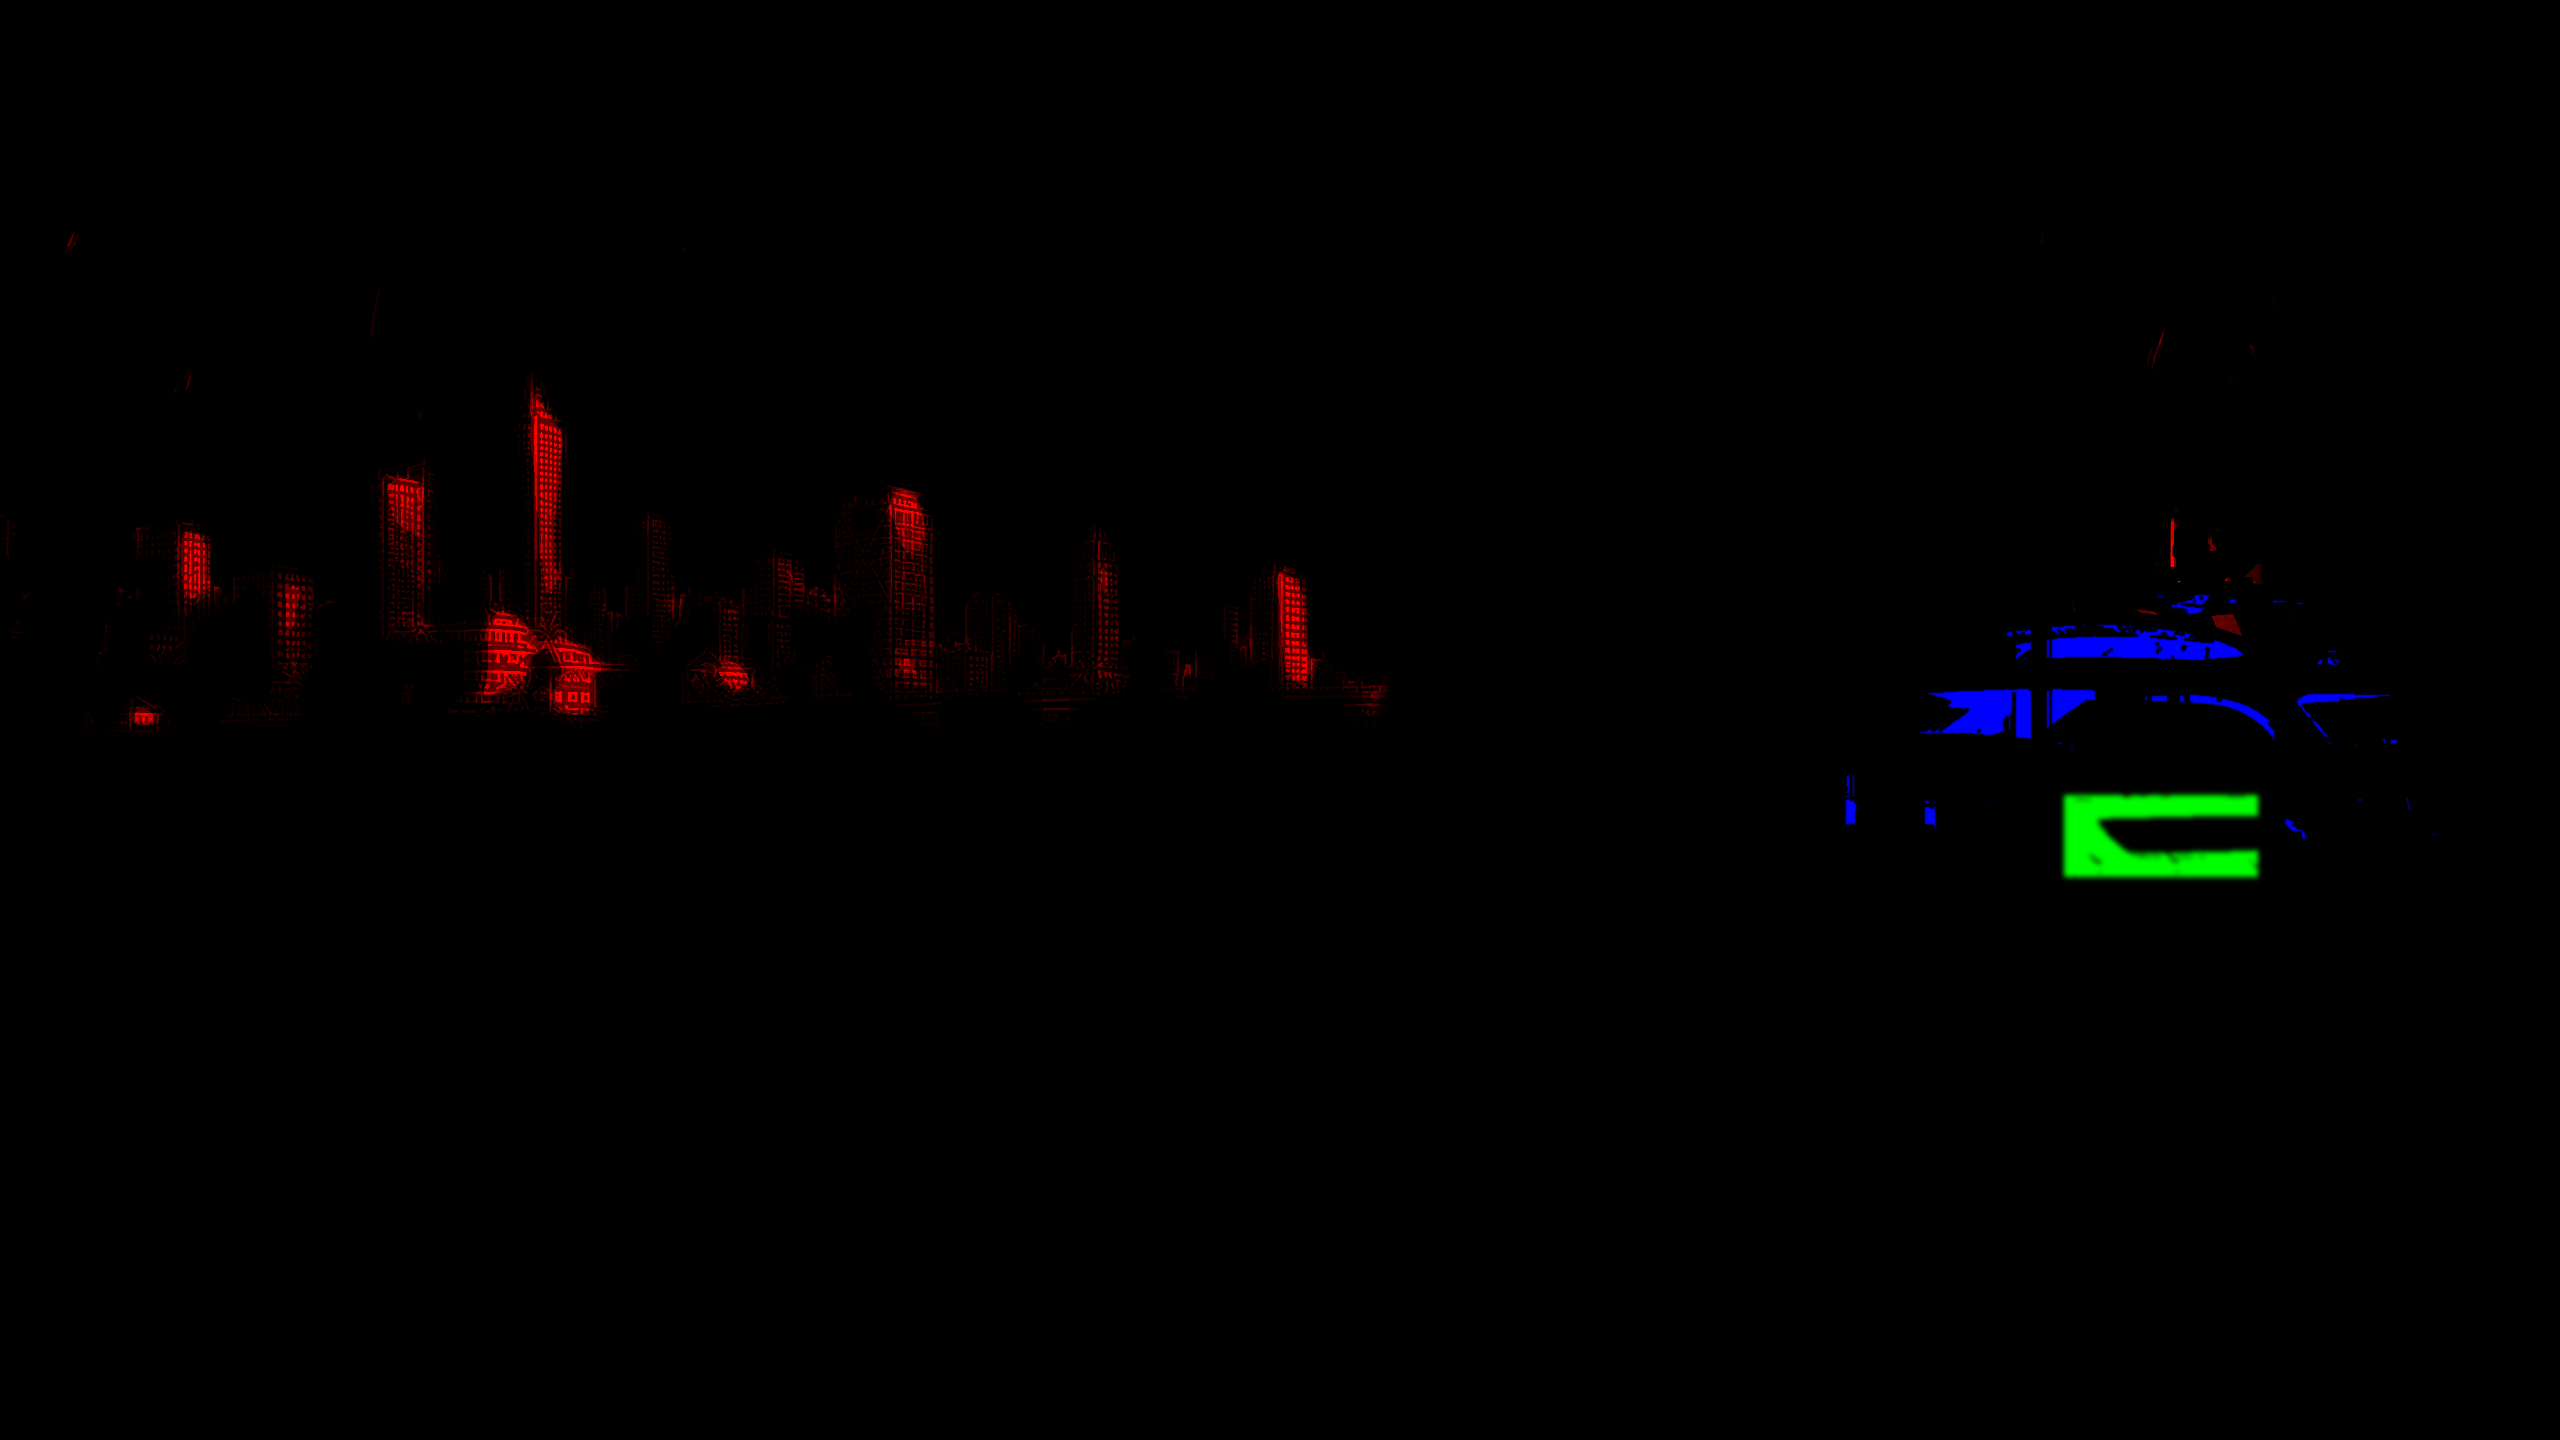
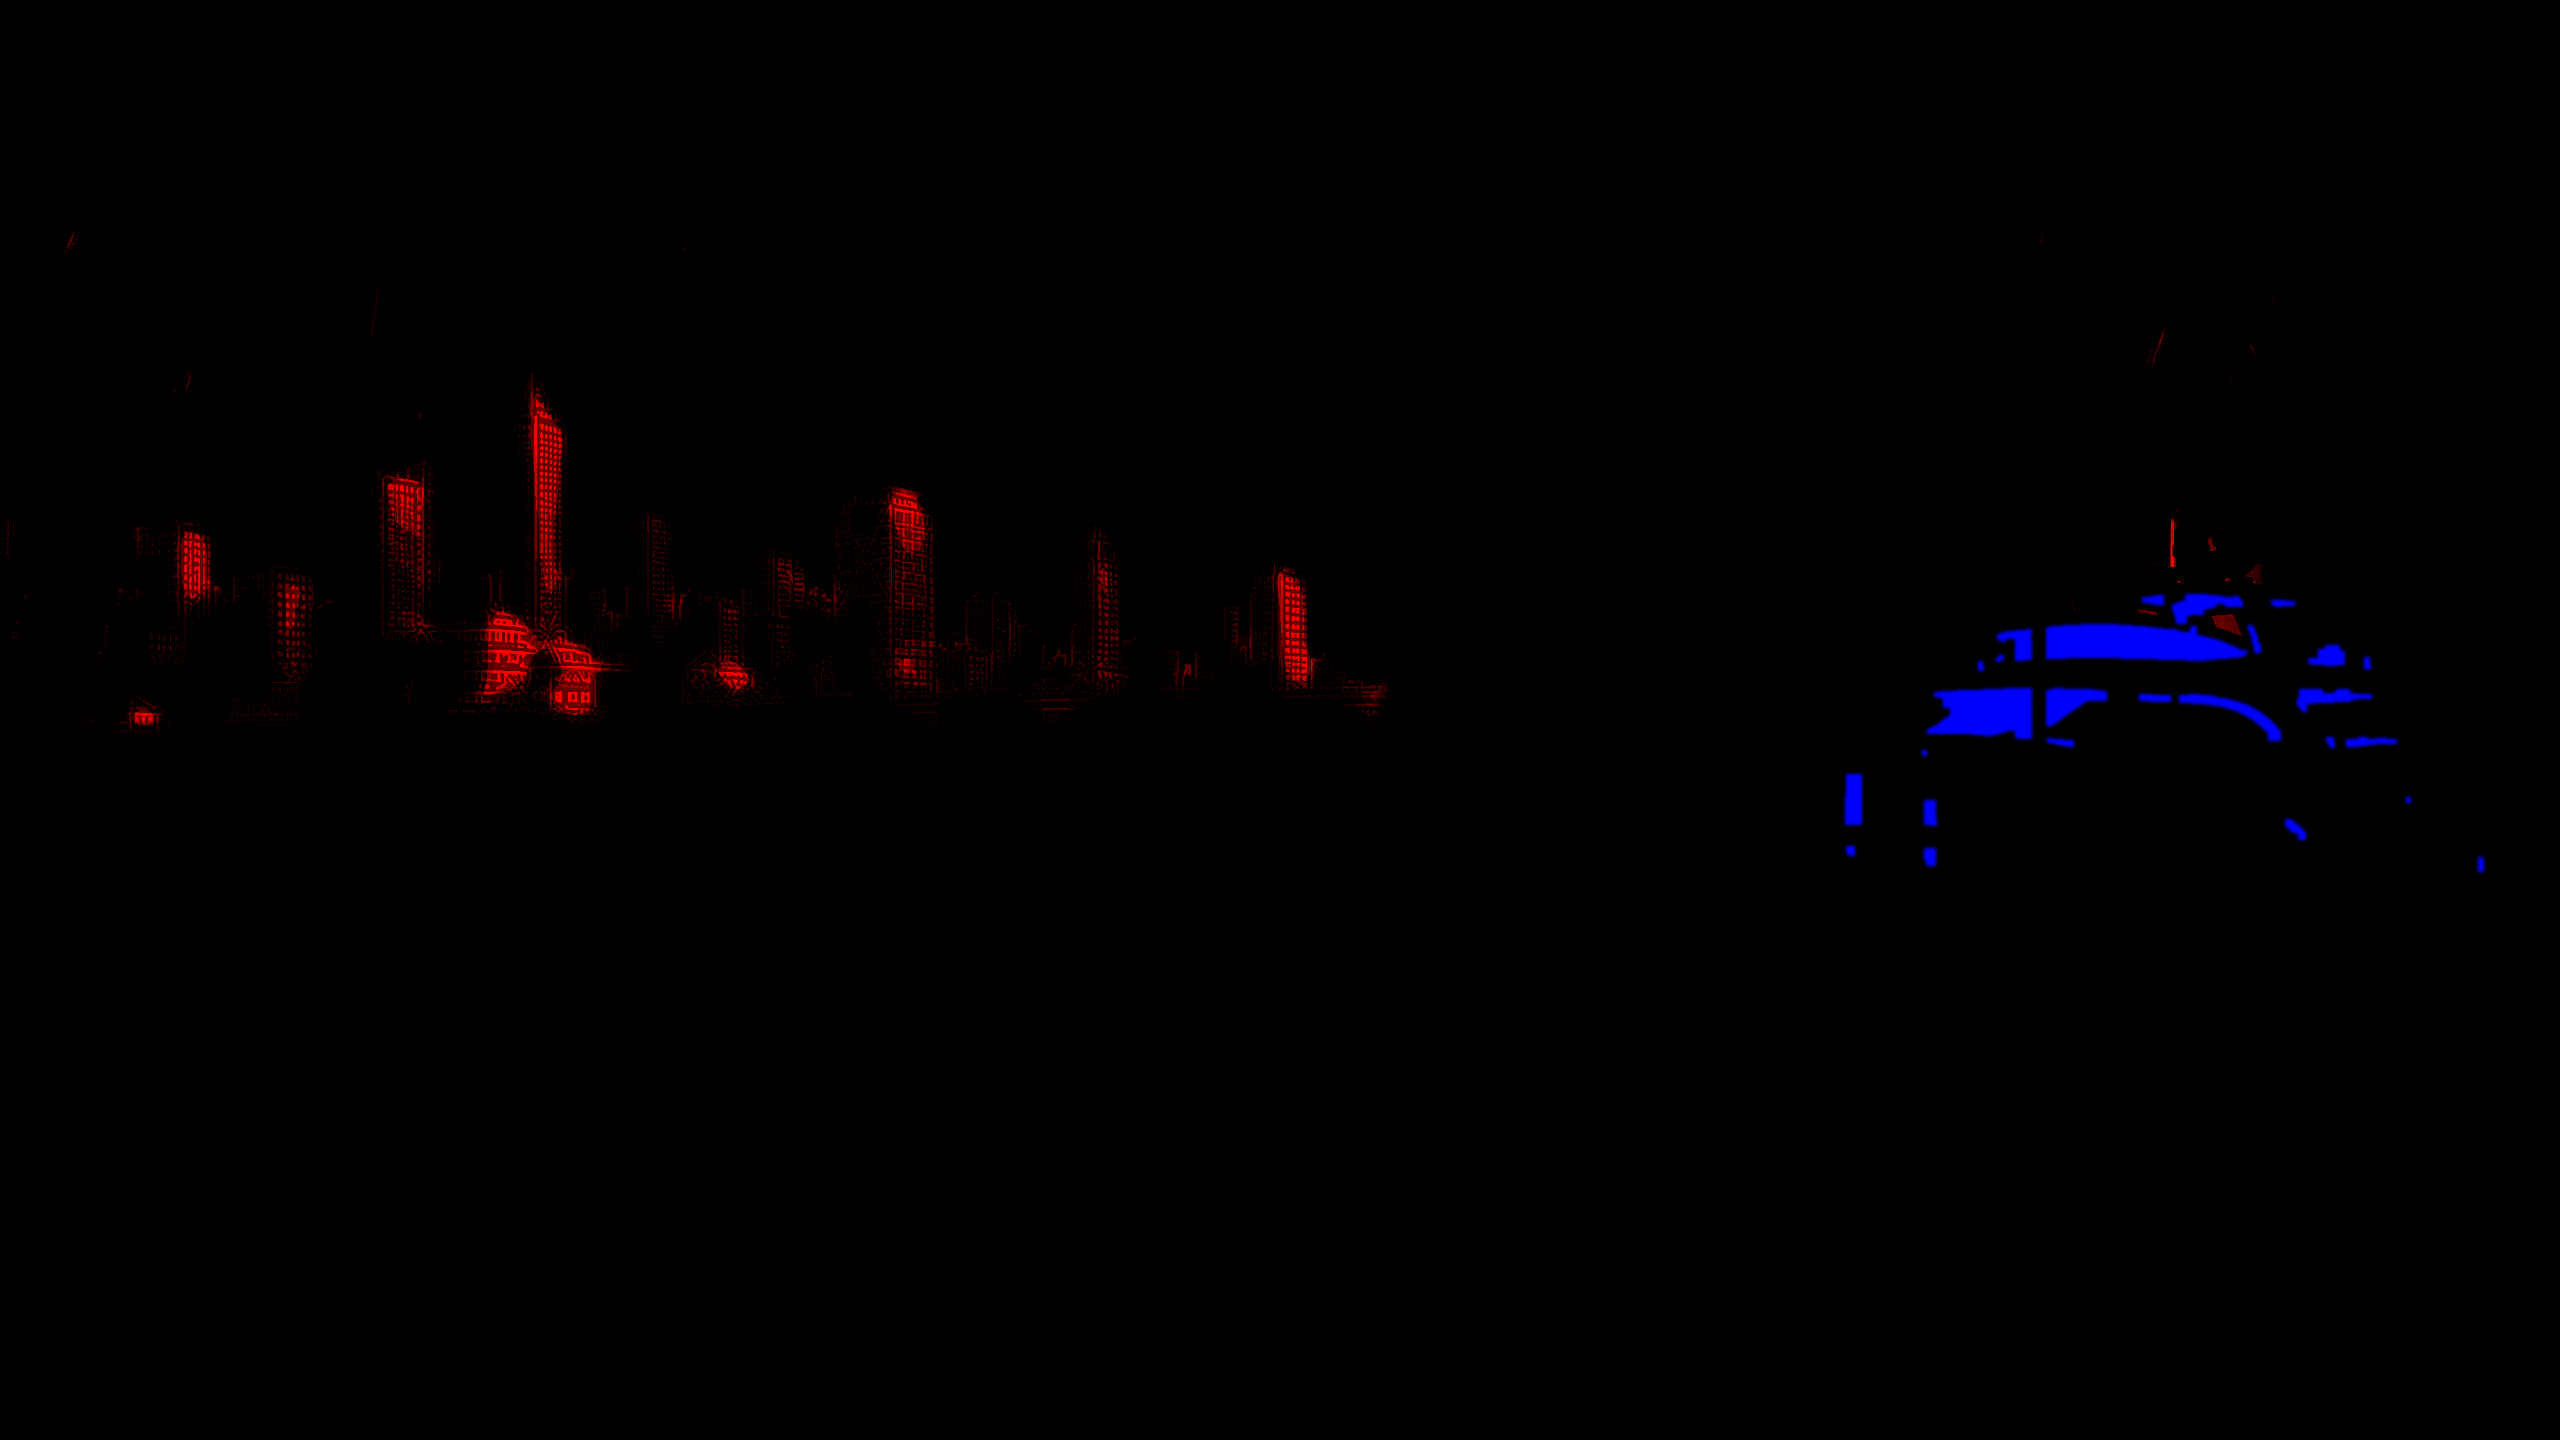
feat(character): drive yacht windows from a hand-painted mask; drop TV box
Auto-detecting this yacht's window glass from luminance proved unreliable —
the panes are mid-tone, the open side decks and under-overhang recesses sit at
the same luminance, and thresholds left speckle and misregistration. So make a
HAND-PAINTED mask the authoritative source:

- The bake reads assets/scenery/yacht_cabin_mask.png (white = lit window,
  aligned to yacht.png) into the B channel when present; the luminance detector
  (now cleaned with a close+open to fill mullions and drop speckle) is only a
  fallback.
- Remove the hand-placed "TV window" box entirely. It was an OFFSET rectangle
  that lit the hull beside the big lower window instead of the glass, leaving
  that window dark — exactly the "rect outside not inside" defect. The green
  channel is now unused; the TV glow block is removed from the shader.
- Every lit window (including the big lower lounge window) now lives in the one
  paintable cabin mask, so the glow matches the painted glass by construction.

Ships a draft mask as a starting point; refine it in a paint program and rebake.

Changed region(s): [[0.75, 0.4062, 0.9375, 0.625], [0.7188, 0.5312, 0.75, 0.5938]]

diff --git a/tools/scenery_art/bake_city_windows.py b/tools/scenery_art/bake_city_windows.py
@@ -36,10 +36,11 @@ Output `assets/scenery/city_windows.png` (RGBA, opaque). Channel packing:
     city-lights shader paints its own per-floor lit/dark selection + tint +
     flicker on top. SOLID faces + registered pane fills, never edges, so lit
     windows read as filled panes/floors instead of a glowing wireframe.
-  * G: yacht TV-window mask — the large lower-deck swoop pane (shader fills a
-    flickering screen glow here).
-  * B: yacht cabin-window mask — the sky-lounge and main-saloon windows in the
-    bright superstructure (shader fills the warm interior cabin glow here).
+  * G: unused (0). Formerly an offset hand-placed "TV window" box; removed — every
+    lit yacht window now lives in the cabin mask (B).
+  * B: yacht cabin-window mask — every window lit warm from inside. Authoritative
+    source is the hand-painted `yacht_cabin_mask.png` (white = lit) when present;
+    a luminance detector is the fallback. The shader fills the warm cabin glow here.
 
 Run:  python3 tools/scenery_art/bake_city_windows.py
 (needs Pillow + numpy)
@@ -56,6 +57,10 @@ REPO = Path(__file__).resolve().parents[2]
 MASTER = REPO / "assets/scenery/blue_hour_master.png"
 FOREGROUND = REPO / "assets/scenery/foreground.png"
 YACHT = REPO / "assets/scenery/yacht.png"
+# Optional HAND-PAINTED cabin-window mask (white = lit warm window), aligned to
+# yacht.png. When present it is authoritative for the B channel; otherwise the
+# luminance detector is used as a fallback.
+YACHT_CABIN_MASK = REPO / "assets/scenery/yacht_cabin_mask.png"
 OUT = REPO / "assets/scenery/city_windows.png"
 
 # Skyline band in normalized art-y: above the tallest tower top, down to the far
@@ -170,91 +175,75 @@ def main() -> int:
 
     wfield[yy > BAND_BOTTOM] = 0.0
 
-    # --- Yacht TV-window mask (GREEN channel) ---
-    # The large lower-deck window is a distinctive dark "swoop" pane. Detect its
-    # EXACT painted glass — the dark pixels in its tight footprint, right of the
-    # hull porthole — so the runtime TV glow fills the real window shape and
-    # position by construction, never a hand-placed box. The shader reads this
-    # from `.g`; the city window field stays in `.r`.
     yt = Image.open(YACHT).convert("RGBA").resize((w, h), Image.Resampling.LANCZOS)
     yt_arr = np.asarray(yt, dtype=np.float64)
     yt_lum = (
         0.299 * yt_arr[..., 0] + 0.587 * yt_arr[..., 1] + 0.114 * yt_arr[..., 2]
     )
     yt_a = yt_arr[..., 3] / 255.0
-    tv_region = (
-        (yy > 0.552) & (yy < 0.609) & (xx > 0.806) & (xx < 0.882)
-    )
-    tv_mask = (tv_region & (yt_lum < 65.0) & (yt_a > 0.05)).astype(np.float64)
-    # Soften so the screen reads as a glow filling the pane, not a hard cut-out.
-    tv_mask = (
-        np.asarray(
-            Image.fromarray((tv_mask * 255.0).astype(np.uint8)).filter(
-                ImageFilter.GaussianBlur(2.5),
-            ),
-            dtype=np.float64,
-        )
-        / 255.0
-    )
 
     # --- Yacht cabin-window mask (BLUE channel) ---
-    # Light ALL the cabin glass — the sky-lounge band, the forward helm, AND the
-    # big main-deck SALOON window (the most prominent dark glazing) — while still
-    # rejecting the dark navy hull. The discriminator is structural, not a y-clip:
-    # a WINDOW is a dark pane set into the bright white superstructure, so it has
-    # bright structure BOTH above AND below it within a short vertical reach. The
-    # dark hull is bright above (the rubrail) but DARK below (more hull), so
-    # requiring brightness on both sides keeps every saloon / sky-lounge / helm pane
-    # and drops the hull. (The earlier y<0.55 clip amputated the whole main saloon —
-    # that is what left the boat's most obvious windows dark.) The glow is kept
-    # CRISP (light erosion + a 1.2px blur) so the panes read as lit windows, not a
-    # smeared wash. The TV window (`.g`) is excluded so it is not double-lit. No
-    # hand-placed boxes — the glow lands on the real window shapes by construction.
-    px = h / 100.0  # pixels per 1% of art height (vertical reaches in art fraction)
-    reach = int(4.5 * px)
-    near = int(0.6 * px)
-    # The glass panes of the sky-lounge and main saloon (lum < 26). The main-saloon
-    # glass sits a touch brighter than the sky-lounge, so a lum<22 cut under-filled
-    # it and left the main saloon reading near-dead while the upper deck glowed —
-    # 26 evens the two tiers. This yacht's open side decks and under-overhang
-    # recesses are dark-set-in-structure too, so the smear risk is controlled in the
-    # shader by a moderate level (no wall-wash, tiny halo), not by starving the mask.
-    dark = (yt_lum < 26.0) & (yt_a > 0.20)
-    set_in_struct = _bright_within(yt_lum, -reach, -near, 70.0) & _bright_within(
-        yt_lum, near, reach, 70.0
-    )
-    cabin_band = (yy > 0.40) & (yy < 0.585) & (xx > 0.70) & (xx < 0.99)
-    cabin_bool = dark & set_in_struct & cabin_band & (yt_a > 0.20) & (~tv_region)
-    # Light erosion sheds 1px speckle; a SMALL blur keeps the panes crisp.
-    cabin_mask = np.asarray(
-        Image.fromarray((cabin_bool.astype(np.uint8) * 255)).filter(
-            ImageFilter.MinFilter(3),
-        ),
-        dtype=np.float64,
-    )
-    cabin_mask = (
-        np.asarray(
-            Image.fromarray(cabin_mask.astype(np.uint8)).filter(
-                ImageFilter.GaussianBlur(0.7),
-            ),
-            dtype=np.float64,
+    # A HAND-PAINTED mask is AUTHORITATIVE when present: paint white over every
+    # window you want lit warm, on a canvas aligned to yacht.png (any size — it is
+    # resized to the bake canvas). The shader fills the warm interior glow exactly
+    # there, so the lit windows match the painted glass by construction.
+    #
+    # Luminance auto-detection can NOT cleanly isolate this yacht's glass — the
+    # panes are mid-tone, the open side decks and under-overhang recesses sit at the
+    # same luminance, and thresholds leave speckle — so the painted mask is the
+    # reliable source. The detector below is only a fallback when no mask is present.
+    if YACHT_CABIN_MASK.exists():
+        cm = Image.open(YACHT_CABIN_MASK).convert("L").resize(
+            (w, h), Image.Resampling.LANCZOS
         )
-        / 255.0
-    )
+        cabin_mask = np.asarray(cm, dtype=np.float64) / 255.0
+        # Feather the painted edges so the glow has no hard cut line.
+        cabin_mask = (
+            np.asarray(
+                Image.fromarray((cabin_mask * 255.0).astype(np.uint8)).filter(
+                    ImageFilter.GaussianBlur(1.5),
+                ),
+                dtype=np.float64,
+            )
+            / 255.0
+        )
+    else:
+        # Fallback: a dark pane set into bright structure (bright above AND below),
+        # cleaned with a close+open to fill mullions and drop speckle.
+        px = h / 100.0
+        reach = int(4.5 * px)
+        near = int(0.6 * px)
+        dark = (yt_lum < 26.0) & (yt_a > 0.20)
+        set_in_struct = _bright_within(
+            yt_lum, -reach, -near, 70.0
+        ) & _bright_within(yt_lum, near, reach, 70.0)
+        cabin_band = (yy > 0.40) & (yy < 0.605) & (xx > 0.70) & (xx < 0.99)
+        cabin_bool = dark & set_in_struct & cabin_band & (yt_a > 0.20)
+        cabin_mask = (
+            np.asarray(
+                Image.fromarray((cabin_bool.astype(np.uint8) * 255))
+                .filter(ImageFilter.MaxFilter(7))
+                .filter(ImageFilter.MinFilter(7))   # close: fill mullions
+                .filter(ImageFilter.MinFilter(5))
+                .filter(ImageFilter.MaxFilter(5))   # open: drop speckle
+                .filter(ImageFilter.GaussianBlur(1.0)),
+                dtype=np.float64,
+            )
+            / 255.0
+        )
 
     v = (np.clip(wfield, 0.0, 1.0) * 255.0).astype(np.uint8)
-    tv = (np.clip(tv_mask, 0.0, 1.0) * 255.0).astype(np.uint8)
     cabin = (np.clip(cabin_mask, 0.0, 1.0) * 255.0).astype(np.uint8)
     rgba = np.zeros((h, w, 4), dtype=np.uint8)
-    rgba[..., 0] = v      # R: city window field
-    rgba[..., 1] = tv     # G: yacht TV-window mask
-    rgba[..., 2] = cabin  # B: yacht cabin-window mask (warm interior glow)
+    rgba[..., 0] = v       # R: city window field
+    rgba[..., 1] = 0       # G: unused (the former offset TV box is removed)
+    rgba[..., 2] = cabin   # B: yacht cabin-window mask (warm interior glow)
     rgba[..., 3] = 255
     Image.fromarray(rgba, "RGBA").save(OUT)
     print(
         f"wrote {OUT}  city px(>0.1)={int((wfield > 0.1).sum())}  "
-        f"tv px(>0.1)={int((tv_mask > 0.1).sum())}  "
-        f"cabin px(>0.1)={int((cabin_mask > 0.1).sum())}"
+        f"cabin px(>0.1)={int((cabin_mask > 0.1).sum())}  "
+        f"mask={'hand-painted' if YACHT_CABIN_MASK.exists() else 'detector fallback'}"
     )
     return 0
 